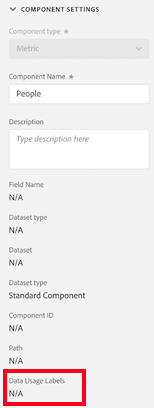
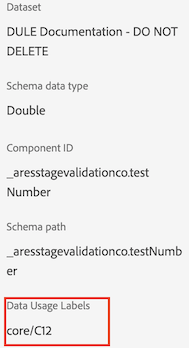
marijka review

diff --git a/help/data-views/data-governance.md b/help/data-views/data-governance.md
@@ -9,7 +9,9 @@ exl-id: 1de5070f-a91c-4fe6-addb-a89d59a280b7
 >
 >This functionality is currently in [limited testing](/help/release-notes/releases.md).
 
-When you create a dataset in Experience Platform, you can create [data usage labels](https://experienceleague.adobe.com/docs/experience-platform/data-governance/labels/reference.html?lang=en) for some or all of the elements in the dataset. Until now, these labels were not exposed in CJA. With this release, you can view these labels in CJA. Of special interest to CJA are these labels:
+When you create a dataset in Experience Platform, you can create [data usage labels](https://experienceleague.adobe.com/docs/experience-platform/data-governance/labels/reference.html?lang=en) for some or all of the elements in the dataset. Until now, these labels were not exposed in CJA. With this release, you can view these labels and policies in CJA. 
+
+Of special interest to CJA are these labels:
 
 * The `C8` label - **[!UICONTROL No measurement]**. This label signifies that data cannot be used for analytics on your organization’s websites or apps.
 
@@ -30,13 +32,13 @@ Data labels that were created in Experience Platform are shown in three location
 | --- | --- |
 | Info button on a schema field | Clicking this button indicates which [!UICONTROL Data Usage Labels] currently apply to a field:<p>![](assets/data-label-left.png) |
 | Right rail under [Component settings](/help/data-views/component-settings/overview.md) | Any [!UICONTROL Data Usage Labels] are listed here:<p>![](assets/data-label-right.png) |
-| Add Data Labels as a column | You can add [!UICONTROL Data Labels] as a column to the [!UICONTROL Included Components] columns in data views. Just click the column selector icon and select **[!UICONTROL Data Usage Labels]**:<p>![](assets/data-label-column.png) |
+| Add Data Labels as a column | You can add [!UICONTROL Data Usage Labels] as a column to the [!UICONTROL Included Components] columns in data views. Just click the column selector icon and select **[!UICONTROL Data Usage Labels]**:<p>![](assets/data-label-column.png) |
 
 {style="table-layout:auto"}
 
 ## Filter on Data Governance labels in data views
 
-In the data views editor, click the Filter icon in the left trail and filter the data views components by data governance label/s:
+In the data views editor, click the Filter icon in the left trail and filter the data views components by **[!UICONTROL Data Governance]** and type of **[!UICONTROL Label]**:
 
 ![](assets/filter-labels.png)
 
@@ -46,35 +48,21 @@ Click **[!UICONTROL Apply]** to see which components have labels attached to the
 
 You can check to see if a policy is turned on that blocks the use of certain CJA data view elements for analytics or export purposed. 
 
-Again, click the Filter icon in the left rail and under Data Governance, click Policies:
+Again, click the Filter icon in the left rail and under **[!UICONTROL Data Governance]**, click **[!UICONTROL Policies]**:
 
 ![](assets/filter-policies.png)
 
 Click **[!UICONTROL Apply]** to see which policies that are enabled.
 
-## How the [!UICONTROL Enforce Analytics] policy affects Workspace projects
+## How enabled policies affect data views
 
-If this policy is turned on, those schema fields that have certain data labels (such as C8) associated with them cannot be used for analytics purposes within CJA Workspace. 
+If the **[!UICONTROL Enforce Analytics]** or **[!UICONTROL Enforce Download]** policies are turned on, those schema components that have certain data labels (such as C8 or C12) associated with them cannot be added to data views. 
 
-For reporting, this means that 
+These components are greyed out in the left rail [!UICONTROL Schema fields] list:
 
-* You cannot add these fields to data views, and they are greyed out in the left rail [!UICONTROL Schema fields] list. 
-* You cannot save a data view that has blocked fields in it.
+![](assets/component-greyed.png)
 
-If you try to perform Workspace analysis on data views that contain items prohibited for analytics, you will get a notice similar to this:
+You also cannot save a data view that has blocked fields in it.
 
-![](assets/policy-enforce.png)
-
-On individual components, the message would be similar to this:
-
-![](assets/policy-enforce2.png)
-
-## How the [!UICONTROL Enforce Download] policy affects Workspace projects
-
-If this policy is turned on, any export or download (such as emailing or sharing pdfs) of Workspace projects will hash the sensitive fields. You can still do analysis on these fields in Workspace, but if you try to email or otherwise share a project, the blocked fields will appear as hashed items in the .pdf file.
-
-Add a screenshot here.
-
-## View labels in Report Builder
-
-See _this section_ for more information. (link to Christine's doc)
+>[!MORELIKETHIS]
+>[Download sensitive data](/help/analysis-workspace/curate-share/download-send.md)

diff --git a/help/data-views/component-settings/overview.md b/help/data-views/component-settings/overview.md
@@ -23,7 +23,7 @@ Core settings that a data view component uses.
 | [!UICONTROL Schema Type] | A non-editable field showing the data type of the component.  While you can use any supported schema field type in Platform, not all fields types are supported in CJA. The following data types are supported: `Integer`, `Int`, `Long`, `Double`, `Float`, `Number`, `Short`, `Byte`, `String`, and `Boolean`. Only the `String` schema data type is allowed in Lookup datasets at this time. |
 | [!UICONTROL Component ID] | Required. The [CJA API](https://adobe.io/cja-apis/docs) uses this field to reference the component. Each component in a data view must be unique. Adobe automatically generates an ID for each component; however, you can click the edit icon and modify the component ID. Changing the component ID breaks all existing Workspace projects that contain this component. While each component needs a unique ID in a single data view, you can use the same component ID in other data views. If you use the same component ID in other data views, you can make Workspace projects compatible across data views. |
 | [!UICONTROL Path] | Required. A non-editable field showing the schema path that the component came from. |
-| [!UICONTROL Data Usage Labels] | Any data usage labels that were assigned to this component in Adobe Experience Platform. Learn more | 
+| [!UICONTROL Data Usage Labels] | Any data usage labels that were assigned to this component in Adobe Experience Platform. [Learn more](/help/data-views/data-governance.md) | 
 | [!UICONTROL Hide component in reporting] | Lets you curate the component out of the data view for non-admins. Admins can still access it by clicking [!UICONTROL Show All Components] in an Analysis Workspace project. |
 
 {style="table-layout:auto"}

diff --git a/help/privacy/privacy-overview.md b/help/privacy/privacy-overview.md
@@ -17,6 +17,8 @@ In addition, when data is exported from CJA (via reporting, export, API, etc.), 
 
 This integration allows you to manage compliance more easily. Data stewards in your organization can set policies to restrict usage. As a result, your CJA users can more confidently use data, knowing that it complies with policies defined by data stewards. 
 
+[Learn more](/help/data-views/data-governance.md)
+
 ## GDPR
 
 Customer Journey Analytics will not subscribe to the General Data Protection Regulation (GDPR) Central Service directly and will instead inherit all dataset changes made in Experience Platform. We depend on Platform Data Lake to enforce GDPR deletion requests and notify us when they’ve been completed on Pipeline. We listen to Pipeline and synchronize all changes to affected batches in Customer Journey Analytics for event datasets. Profile and lookup datasets affected by GDPR deletion requests will be completely re-ingested after each delete request. We can guarantee deletion requests are executed within 7 days of a deletion event in Data Lake.

diff --git a/help/analysis-workspace/curate-share/download-send.md b/help/analysis-workspace/curate-share/download-send.md
@@ -77,7 +77,7 @@ If you request more than one download at a time, you will receive a notification
 
 ## Download sensitive data {#sensitive}
 
-If the Enforce Download data governance policy is turned on, any download (such as emailing or sharing pdfs) of Workspace projects will hash the data fields labeled as sensitive. You can still do analysis on these fields in Workspace, but if you try to email or otherwise share a project, the blocked fields will appear as hashed items in the .pdf file.
+If the **[!UICONTROL Enforce Download]** [data governance policy](/help/data-views/data-governance.md) is turned on in the data view you are reporting on, any download (such as emailing or sharing pdfs) of Workspace projects will hash the data fields labeled as sensitive. You can still do analysis on these fields in Workspace, but if you try to email or otherwise share a project, the blocked fields will appear as empty in the .pdf or .csv file.
 
 ## FAQ {#faq}
 
